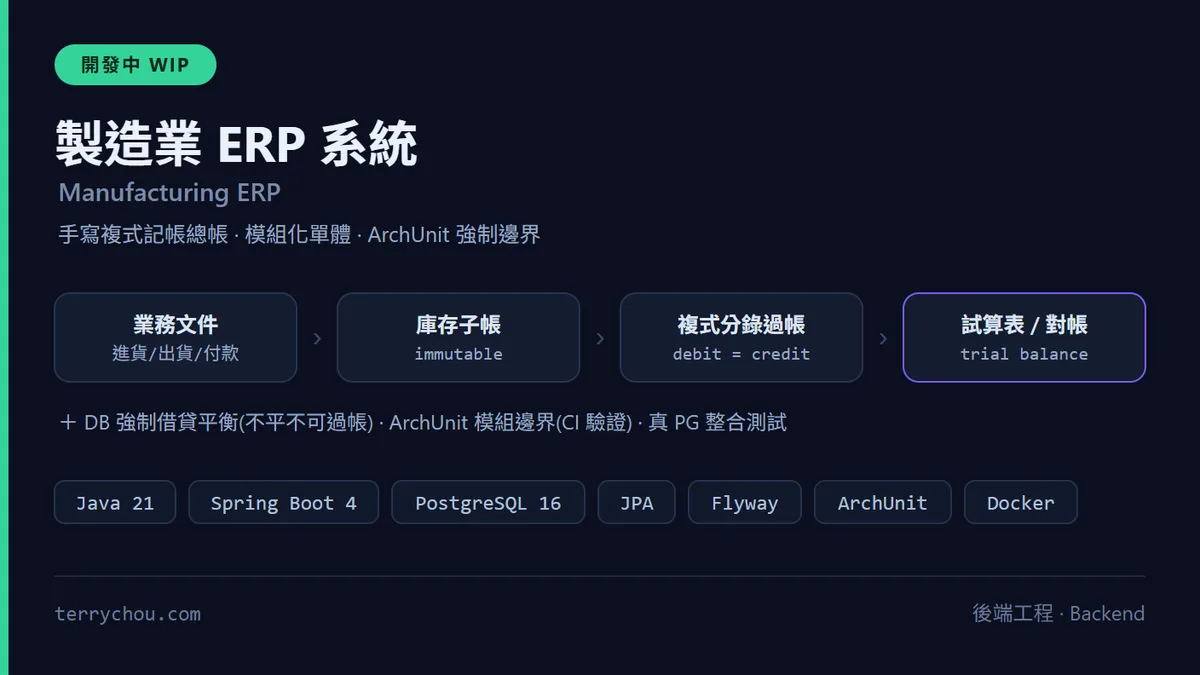
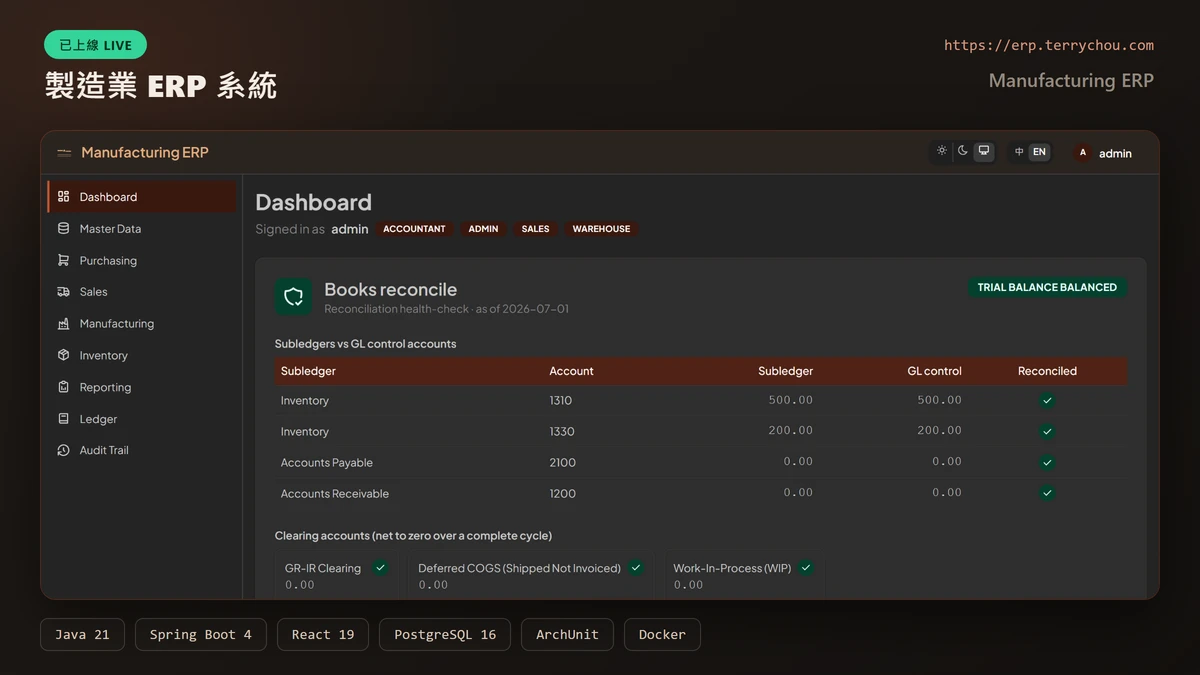
功能: ERPSystem 條目更新為已完成全端 live app + 換封面 + 移除 WIP
ERPSystem 已完成上線(Phase 0–7 全端化 + Warm Terracotta 重設計,
erp.terrychou.com),把作品集中過時的 Phase-0/WIP 條目全面更新:

- content/projects.json:desc/techStack/highlight/challenges/
  demoFeasibility 改寫為已上線全端產品(Java+Spring 後端 + React+
  Mantine 前端);presentation 改 showcase + liveUrl(得 Live 徽章與
  「線上體驗」CTA,與 SteamSaleChecker 同款,不用遊戲味的 live-demo)
- projects.ts:WIP_SLUGS 移除 erp-system
- site.ts:技能補 Spring Boot(後端)/ Mantine(前端)
- covers/erp-system.webp:換成線上 demo 暖陶土儀表板實截圖(1200x675)

typecheck + build(19 頁)綠;中/英 PDF、首頁卡片、詳情頁肉眼驗證。

diff --git a/apps/main/src/lib/site.ts b/apps/main/src/lib/site.ts
@@ -55,14 +55,14 @@ export const skillGroups: SkillGroup[] = [
     titleEn: "Frontend",
     icon: "fullstack",
     category: "neutral",
-    items: ["React", "Next.js", "Tailwind", "Electron"],
+    items: ["React", "Next.js", "Mantine", "Tailwind", "Electron"],
   },
   {
     titleZh: "後端開發",
     titleEn: "Backend",
     icon: "fullstack",
     category: "neutral",
-    items: ["FastAPI", "SQLAlchemy", "PostgreSQL", "Redis", "asyncio"],
+    items: ["FastAPI", "Spring Boot", "SQLAlchemy", "PostgreSQL", "Redis", "asyncio"],
   },
   {
     titleZh: "AI / ML 部署",

diff --git a/apps/main/src/lib/projects.ts b/apps/main/src/lib/projects.ts
@@ -72,7 +72,7 @@ const TIER_MAP: Record<string, Tier> = {
 };
 
 /** WIP 專案 slug(文案已含 WIP)。 */
-const WIP_SLUGS = new Set(["cyclepact", "erp-system"]);
+const WIP_SLUGS = new Set(["cyclepact"]);
 
 export function tierOf(slug: string): Tier {
   return TIER_MAP[slug] ?? "academic";

diff --git a/PROGRESS.md b/PROGRESS.md
@@ -1,9 +1,17 @@
 # PROGRESS — 履歷入口網站
 
 ## 目前狀態
-**全套上線並自動化**:主站 https://terrychou.com、子站 https://soulshard.terrychou.com 皆上線。兩個 repo(portfolio、Soulshard-Hunter)各有獨立 self-hosted runner 與 CI/CD,push 即自動部署;對外經 Cloudflare Tunnel(零入站),主站部署後自動 purge 邊緣快取;Cloudflare Web Analytics 運作中(CWV 全綠)。文件齊備、SEO/分享優化完成。前端已套用 Engineer Dark「立體層次」美化與互動/無障礙修正、專案分層調整;履歷 PDF 改為 ATS 格式(並修掉產線誤渲染首頁的 bug、固定專案順序);子站加上「魂晶」favicon。已上線的 SteamSaleChecker 子站(steam.terrychou.com)以 Notable + showcase(卡片直接 Live)收入作品集(R3,PR #18 已 merge、自動部署中),並順手修掉 live-demo 卡片「看詳情」fallback 首頁的既有 bug。
+**全套上線並自動化**:主站 https://terrychou.com、子站 https://soulshard.terrychou.com 皆上線。兩個 repo(portfolio、Soulshard-Hunter)各有獨立 self-hosted runner 與 CI/CD,push 即自動部署;對外經 Cloudflare Tunnel(零入站),主站部署後自動 purge 邊緣快取;Cloudflare Web Analytics 運作中(CWV 全綠)。文件齊備、SEO/分享優化完成。前端已套用 Engineer Dark「立體層次」美化與互動/無障礙修正、專案分層調整;履歷 PDF 改為 ATS 格式(並修掉產線誤渲染首頁的 bug、固定專案順序);子站加上「魂晶」favicon。已上線的 SteamSaleChecker 子站(steam.terrychou.com)以 Notable + showcase(卡片直接 Live)收入作品集(R3,PR #18 已 merge、自動部署中),並順手修掉 live-demo 卡片「看詳情」fallback 首頁的既有 bug。已完成上線的 ERPSystem(erp.terrychou.com)由早期 Phase-0/WIP 條目全面更新為**已完成全端 live app**(showcase + liveUrl、換新封面、移除 WIP 徽章、技能補 Spring Boot/Mantine)。
 
 ## 已完成
+- [2026-07-01] 🏭 **ERPSystem:WIP → 已完成全端 live app(內容 / 封面 / 呈現全面更新)**。ERPSystem 已全數完成並上線(後端 Phase 0–7 全端化 + 「Warm Terracotta」UI 重設計,https://erp.terrychou.com),故把作品集中嚴重過時的條目全面更新:
+  - **`content/projects.json` erp-system**:`descZh/En` 重寫為「Java 21 + Spring Boot 4 + PostgreSQL 16 後端 + React 19 + Mantine 9 + Vite + TypeScript 前端」的**已上線全端產品**(刪除「Phase 0 走骨架 / 15 測試 / React 為後續階段」);`techStack` 補齊前端與全端項(React 19 / Mantine 9 / Vite / TanStack Query / springdoc-openapi / Micrometer / nginx …,共 19 項);第 4 條 highlight 由「Phase 0 藍圖」改為「全端交付並上線」;`challenges` 移除「仍屬早期」結尾;`demoFeasibility.canRunInBrowser` false→true、notes 改寫為線上 demo + 一鍵 docker compose。
+  - **呈現改為 steam 同款**(刻意不用 `live-demo`——那會給遊戲味的「線上遊玩 / Play」CTA):`presentation:"showcase"` + `liveUrl:"https://erp.terrychou.com"` → 卡片得 **Live 徽章 + 「線上體驗」**(語意正確)、卡片主連結進 `/projects/erp-system` 故事頁,詳情頁另有「線上體驗 / Live demo」外連。與 SteamSaleChecker(同為非遊戲 live app)一致。
+  - **`projects.ts`**:從 `WIP_SLUGS` 移除 erp-system(不再顯示 WIP 徽章);`TIER_MAP`(notable)、`RESUME_ORDER`(進 PDF)不動。
+  - **換新封面**:以 headless Chrome 對線上 demo 的暖陶土**深色**儀表板截圖(登入 admin、略過導覽、`data-onboarding="reconciliation-hero"` 為準),套 soulshard/steam 同款版式(LIVE 徽章 + 中英標題 + URL + 圓角框住的截圖 + 技術 chips)以 sharp 輸出 1200×675 webp,覆蓋舊「後端工程 · WIP」設計款。
+  - **技能小補**:`site.ts` 後端加 `Spring Boot`、前端加 `Mantine`(ERP 現為旗艦 Spring Boot + Mantine 專案,原清單缺漏 Java/Spring 生態)。
+  - **驗證**:typecheck + build(19 靜態頁)綠;肉眼確認中/英 ATS PDF 的 ERP 段(oneLiner + 完整 techStack + 前 2 亮點、技能 Spring Boot/Mantine)、首頁 ERP 卡片(新封面、Live 徽章、「線上體驗」)、`/projects/erp-system` 詳情頁皆正確。
+  - **待確認 / 未動**:`cyclepact` 仍在 `WIP_SLUGS`(是否已完成未知,留待確認);`ProjectsSection`/`ProjectDetailView` 對有 `liveUrl` 者的 `aria-label`「可線上遊玩 / playable」偏遊戲味(亦影響 steam,屬既有、僅螢幕報讀,未動)。README 未動(本次僅更新單筆專案內容 + 封面 + 呈現,monorepo 架構 / 部署拓撲 / 筆數 18 均未變;erp.terrychou.com 由 ERP 專案自有 repo/infra 部署,不屬本 monorepo 拓撲)。
 - **2026-06-29** 🔒 依賴稽核 + e2e smoke + LICENSE:`pnpm audit --prod` 修掉 next 內嵌的 `postcss <8.5.10`(GHSA-qx2v-qp2m-jg93)——於 `pnpm-workspace.yaml` 加 `overrides: postcss>=8.5.10`(此版 pnpm 由 workspace yaml 讀設定,非 package.json),audit 歸零;新增 **Playwright 最小 smoke**(`apps/main/e2e/smoke.spec.ts`:首頁載入有實質內容 / 至少一個 `/projects/` 連結 / 行動版無水平溢出),對 build 出的 `out/` 起本機 `serve` 驗證,並納入 `ci.yml`(build 後跑、含 `playwright install`);補根目錄 `LICENSE`(MIT)。typecheck / lint / build / smoke(3 passed)全綠。
 - [2026-06-26] 🖼️ 作品集卡片/詳情頁嵌入封面圖:7 個有封面的專案(2 featured + 5 notable)於卡片頂部與 `/projects/[slug]` 詳情頁顯示 16:9 封面(WebP,`apps/main/public/covers/<slug>.webp`,1200×675、各 33–50KB)。`packages/ui` Card 新增 `CoverImage`——FeaturedCard 以封面取代 glyph 帶、NotableCard 加頂圖;ProjectDetail 加 cover hero。`content/projects.json` 7 筆加 `cover` 欄、`Project` 介面加 `cover?`;mini/academic 無封面者版面不變。圖以 sharp 由 1408×792 PNG 轉 WebP。typecheck/lint/build 綠(out/ 已含 7 張 webp 與引用,靜態頁仍 19)。
 - [2026-06-26] 🎨 7 專案封面圖 + ERPSystem 納入作品集:為 A~F 六個專案 + ERPSystem 各製作 16:9 深色工程風封面(設計款以 SVG→PNG via Puppeteer 渲染、魂晶/Steam 用實站截圖以 sharp 框制),PR 進各 repo README 頂部並 merge(AI-Deployment #5、Smart-Pedestrian #4、Soulshard #75、SteamSaleChecker #21、discord-auto-bot #3、cyclepact #23、ERPSystem #2;檔放 `docs/cover.png`,已有 architecture.svg 的保留)。ERPSystem(Java 21 / Spring Boot 4 / PostgreSQL 16,手寫複式記帳總帳 + DB 強制借貸平衡 + ArchUnit 邊界 + Testcontainers,Phase 0 走骨架)以 **Notable + WIP** 收入:`content/projects.json` +1 筆雙語(count 17→18,排 steam 後)、`projects.ts` 設 notable + 加入 `RESUME_ORDER`(steam 後)與 `WIP_SLUGS`。typecheck/build 綠(靜態頁 18→19,新增 `/projects/erp-system`)。封面 704×396 版另供 104 履歷「專案成就」上傳。